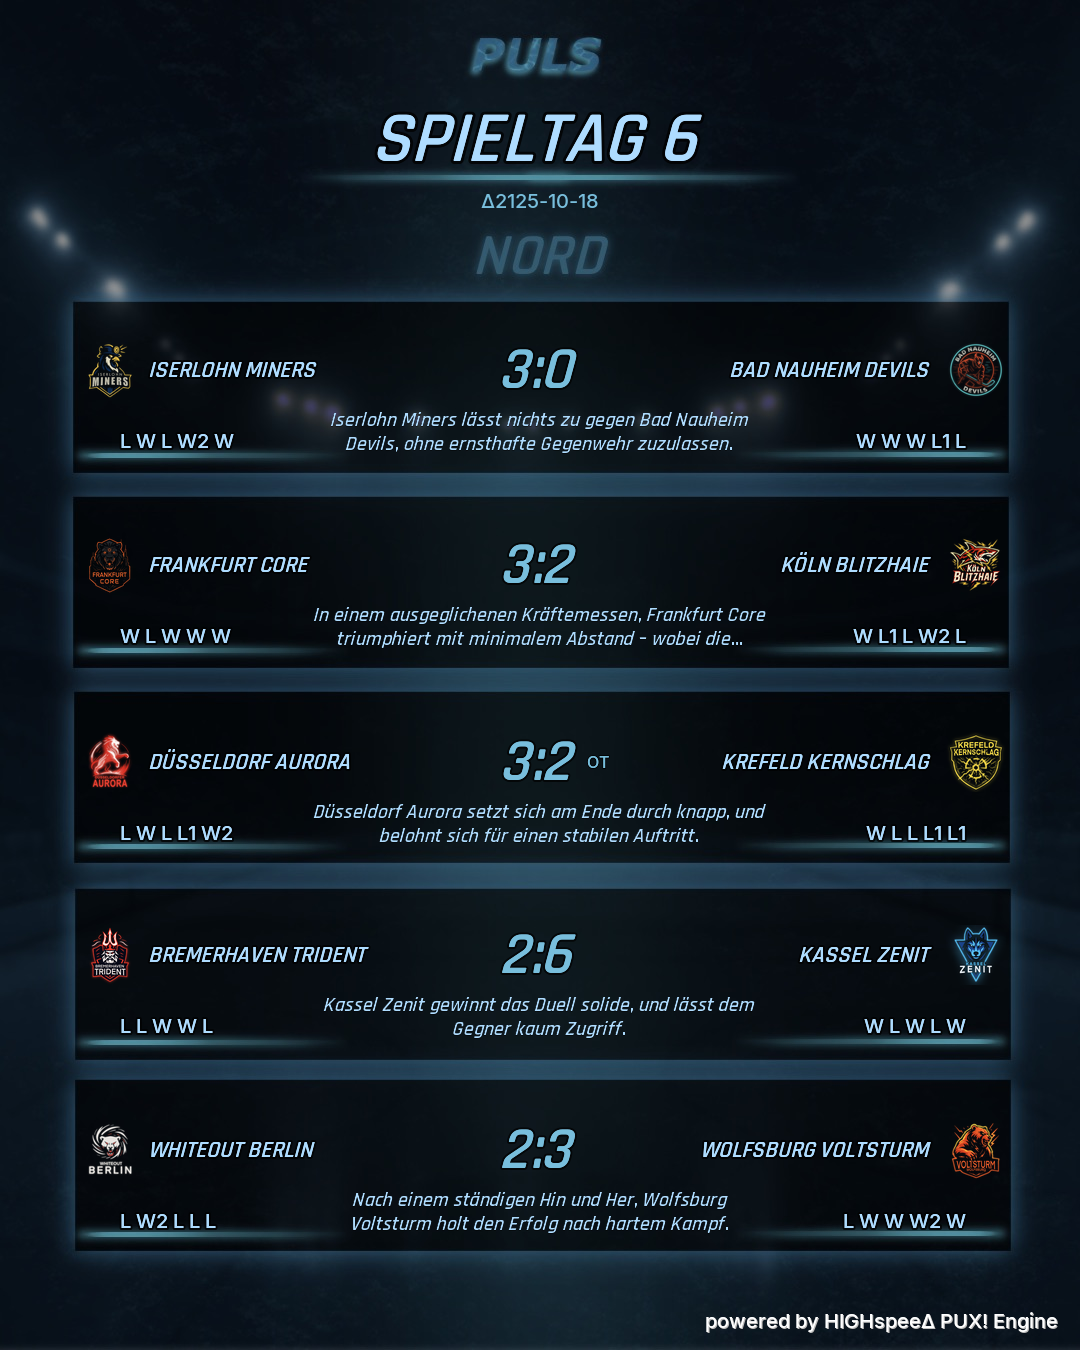
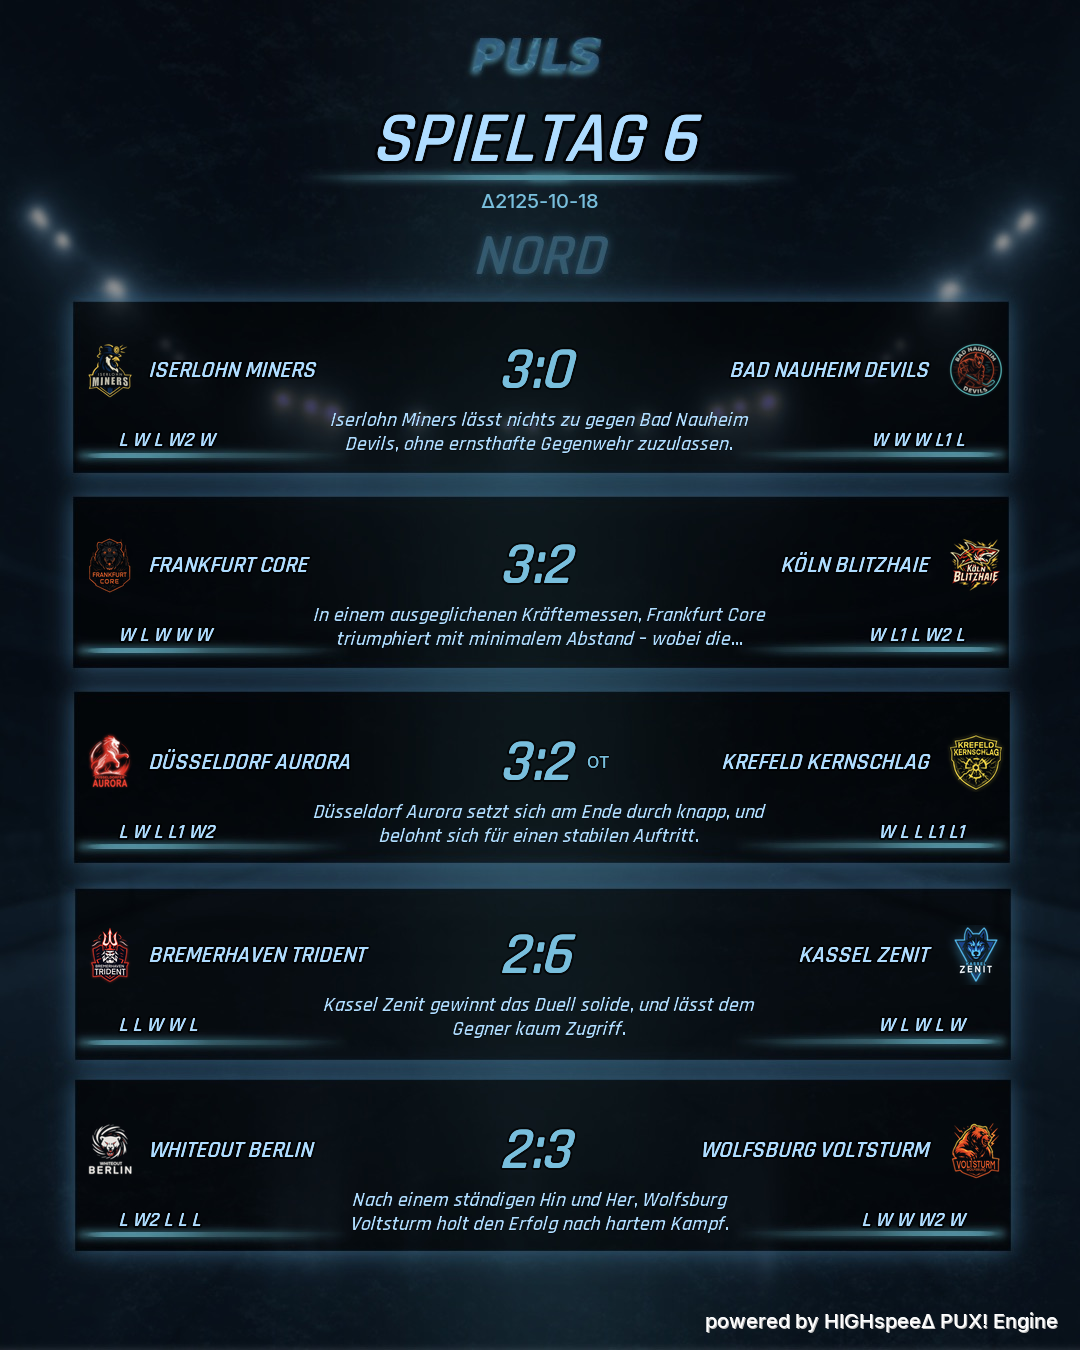
Spieltag saison höhe angepasst

diff --git a/src/modules/puls_renderer/results_renderer.py b/src/modules/puls_renderer/results_renderer.py
@@ -529,7 +529,7 @@ def render_matchday_results_overview(
         # last5 unter Logos
         last5_home_txt = " ".join(last5_home[-5:])  # letzte 5
         last5_away_txt = " ".join(last5_away[-5:])
-        last5_font = _load_font(font_med_path, layout.last5_font_size)
+        last5_font = _load_font(font_bold_path, layout.last5_font_size)
         last5_home_y = y + layout.logo_size + layout.last5_y_offset
         last5_away_y = y + layout.logo_size + layout.last5_y_offset
         draw_text_fx(

diff --git a/tools/puls_renderer/matchday_starting6_renderer.py b/tools/puls_renderer/matchday_starting6_renderer.py
@@ -157,7 +157,7 @@ def render_matchday_starting6(
     sub = f"{season_label} • SPIELTAG {matchday}"
     
     font_sub = _fit_text(draw, sub.upper(), font_med, max_width=980, start_size=20, min_size=14)
-    draw.text((540, 170), sub.upper(), font=font_sub, fill=layout.color_accent, anchor="mm")
+    draw.text((540, 180), sub.upper(), font=font_sub, fill=layout.color_accent, anchor="mm")
     
     # Divider
     draw.line((110, 195, 970, 195), fill=layout.color_divider, width=2)

diff --git a/tools/puls_renderer/layout_config.py b/tools/puls_renderer/layout_config.py
@@ -103,7 +103,7 @@ class Starting6LayoutV1:
 
     # Header
     header_title_y: int = 125
-    header_sub_y: int = 175
+    header_sub_y: int = 180
 
     # Logos
     logo_size: int = 200
